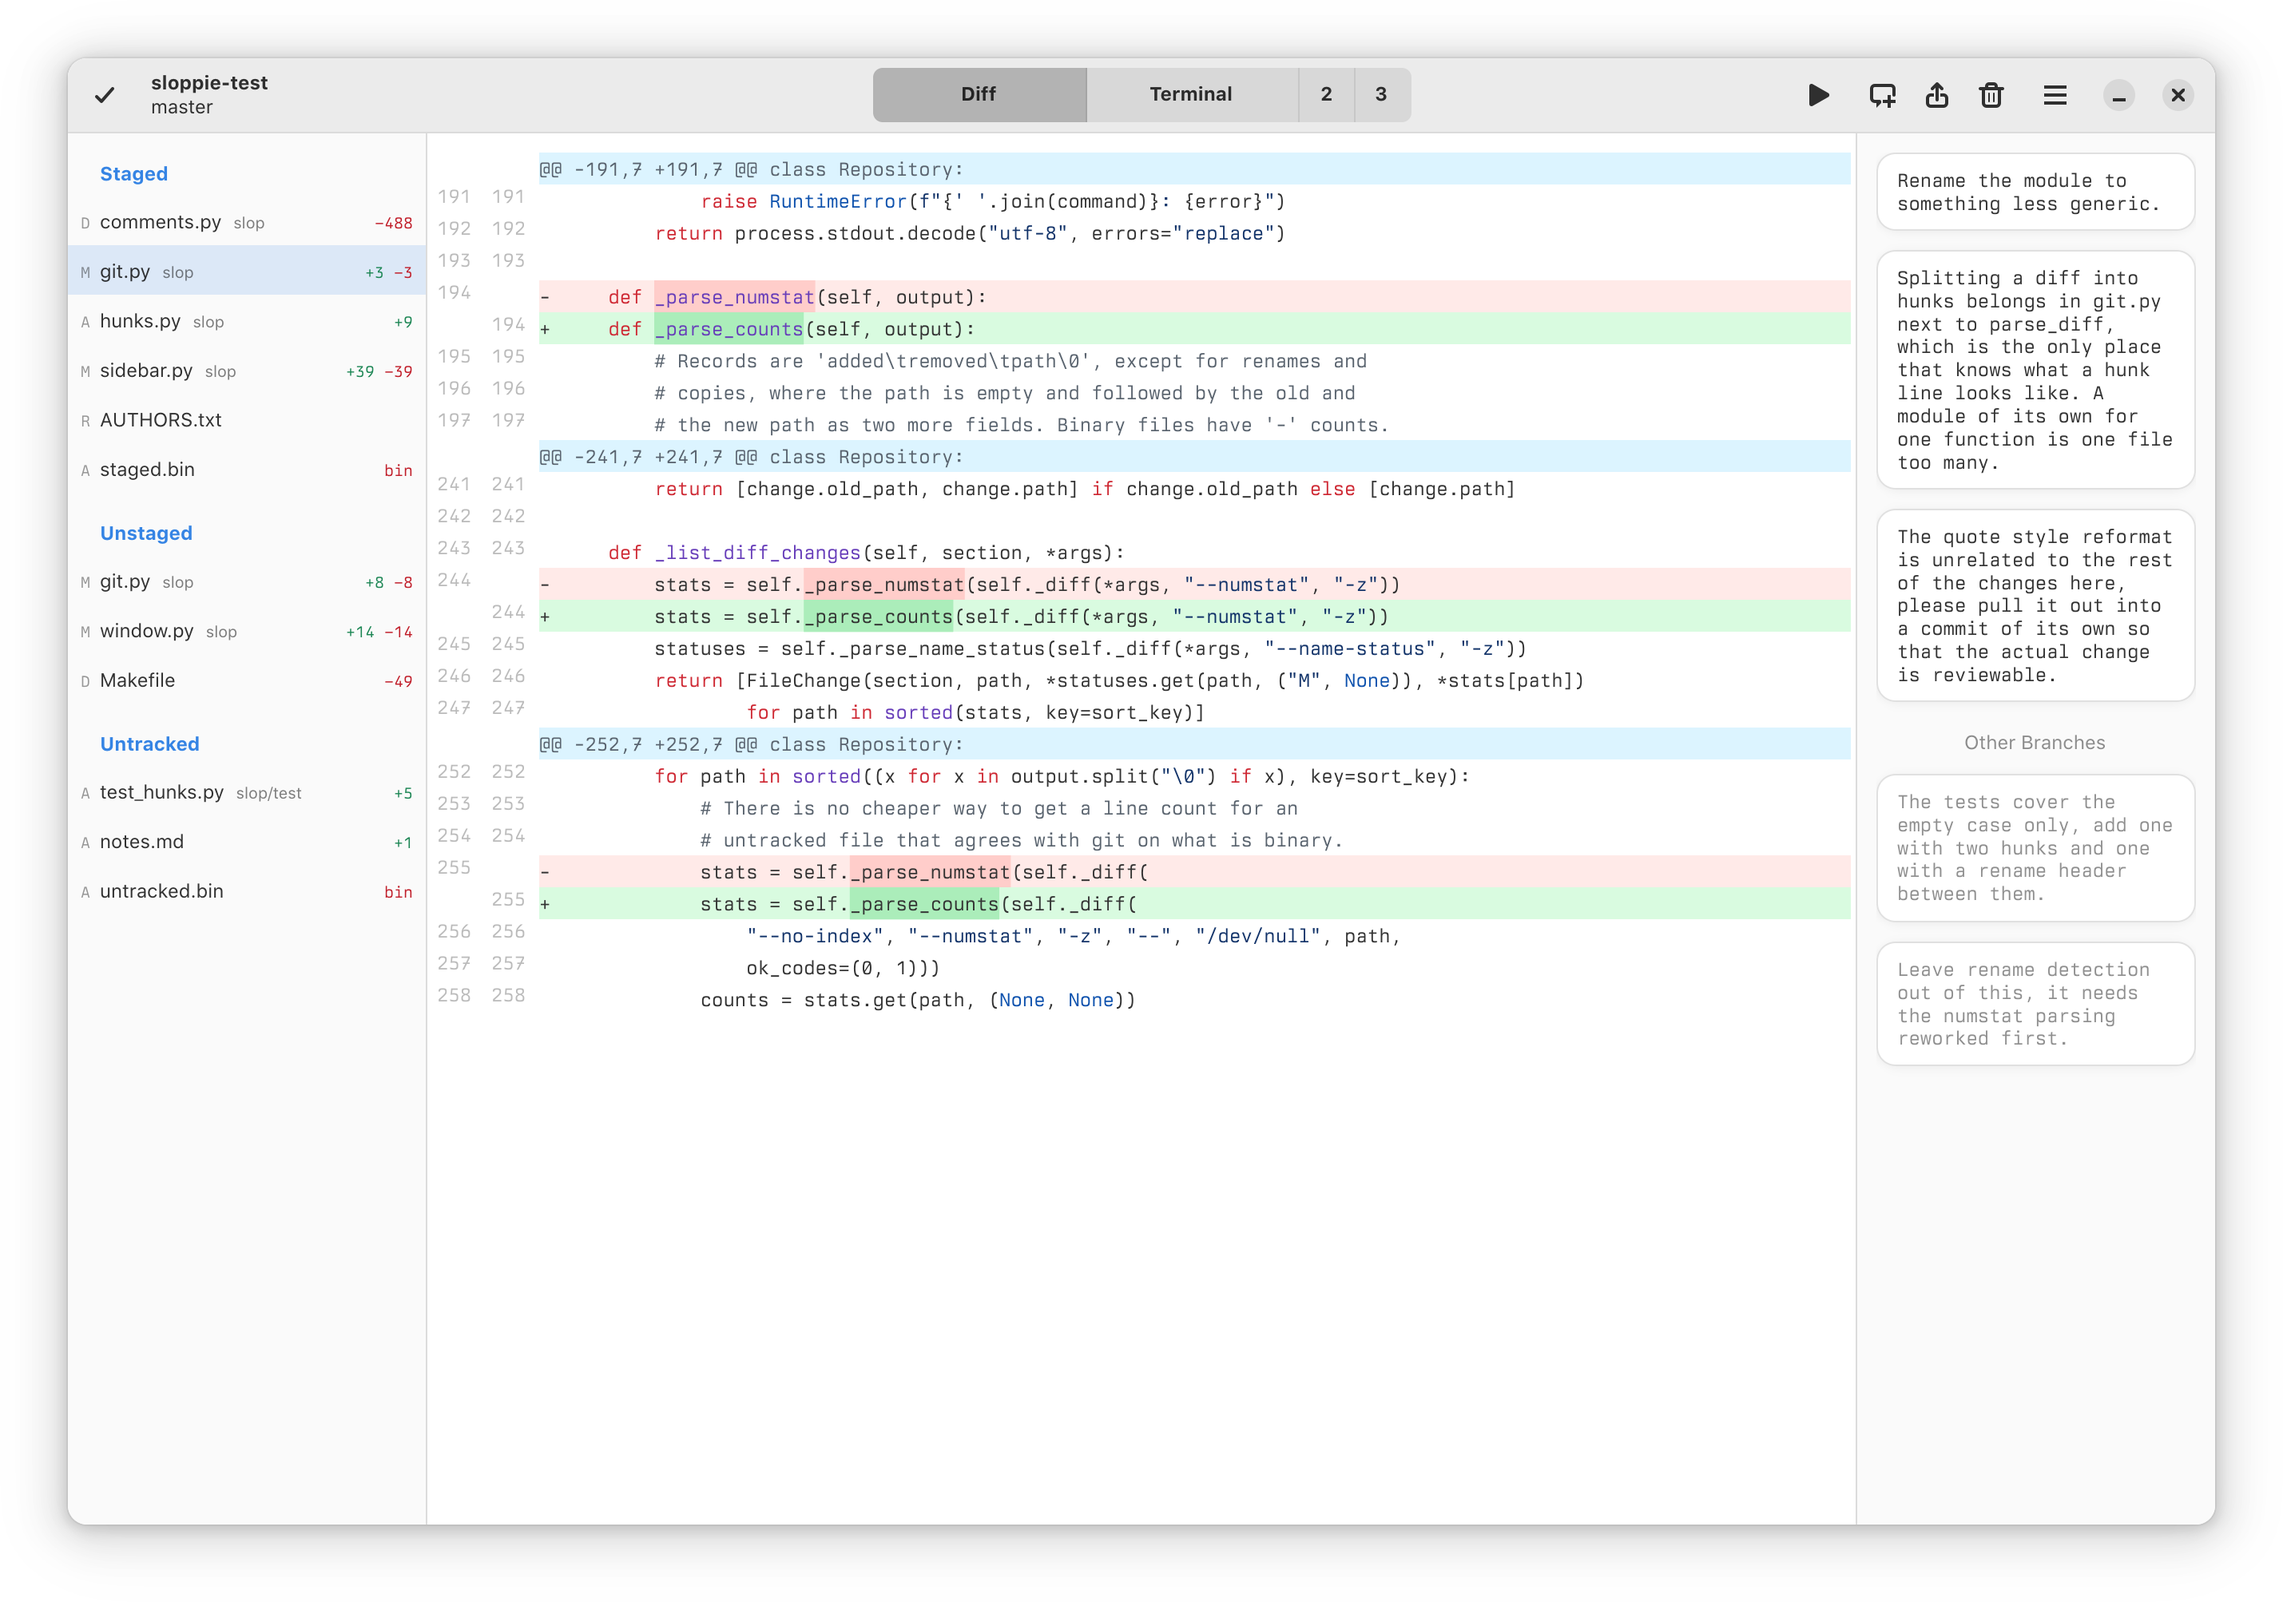
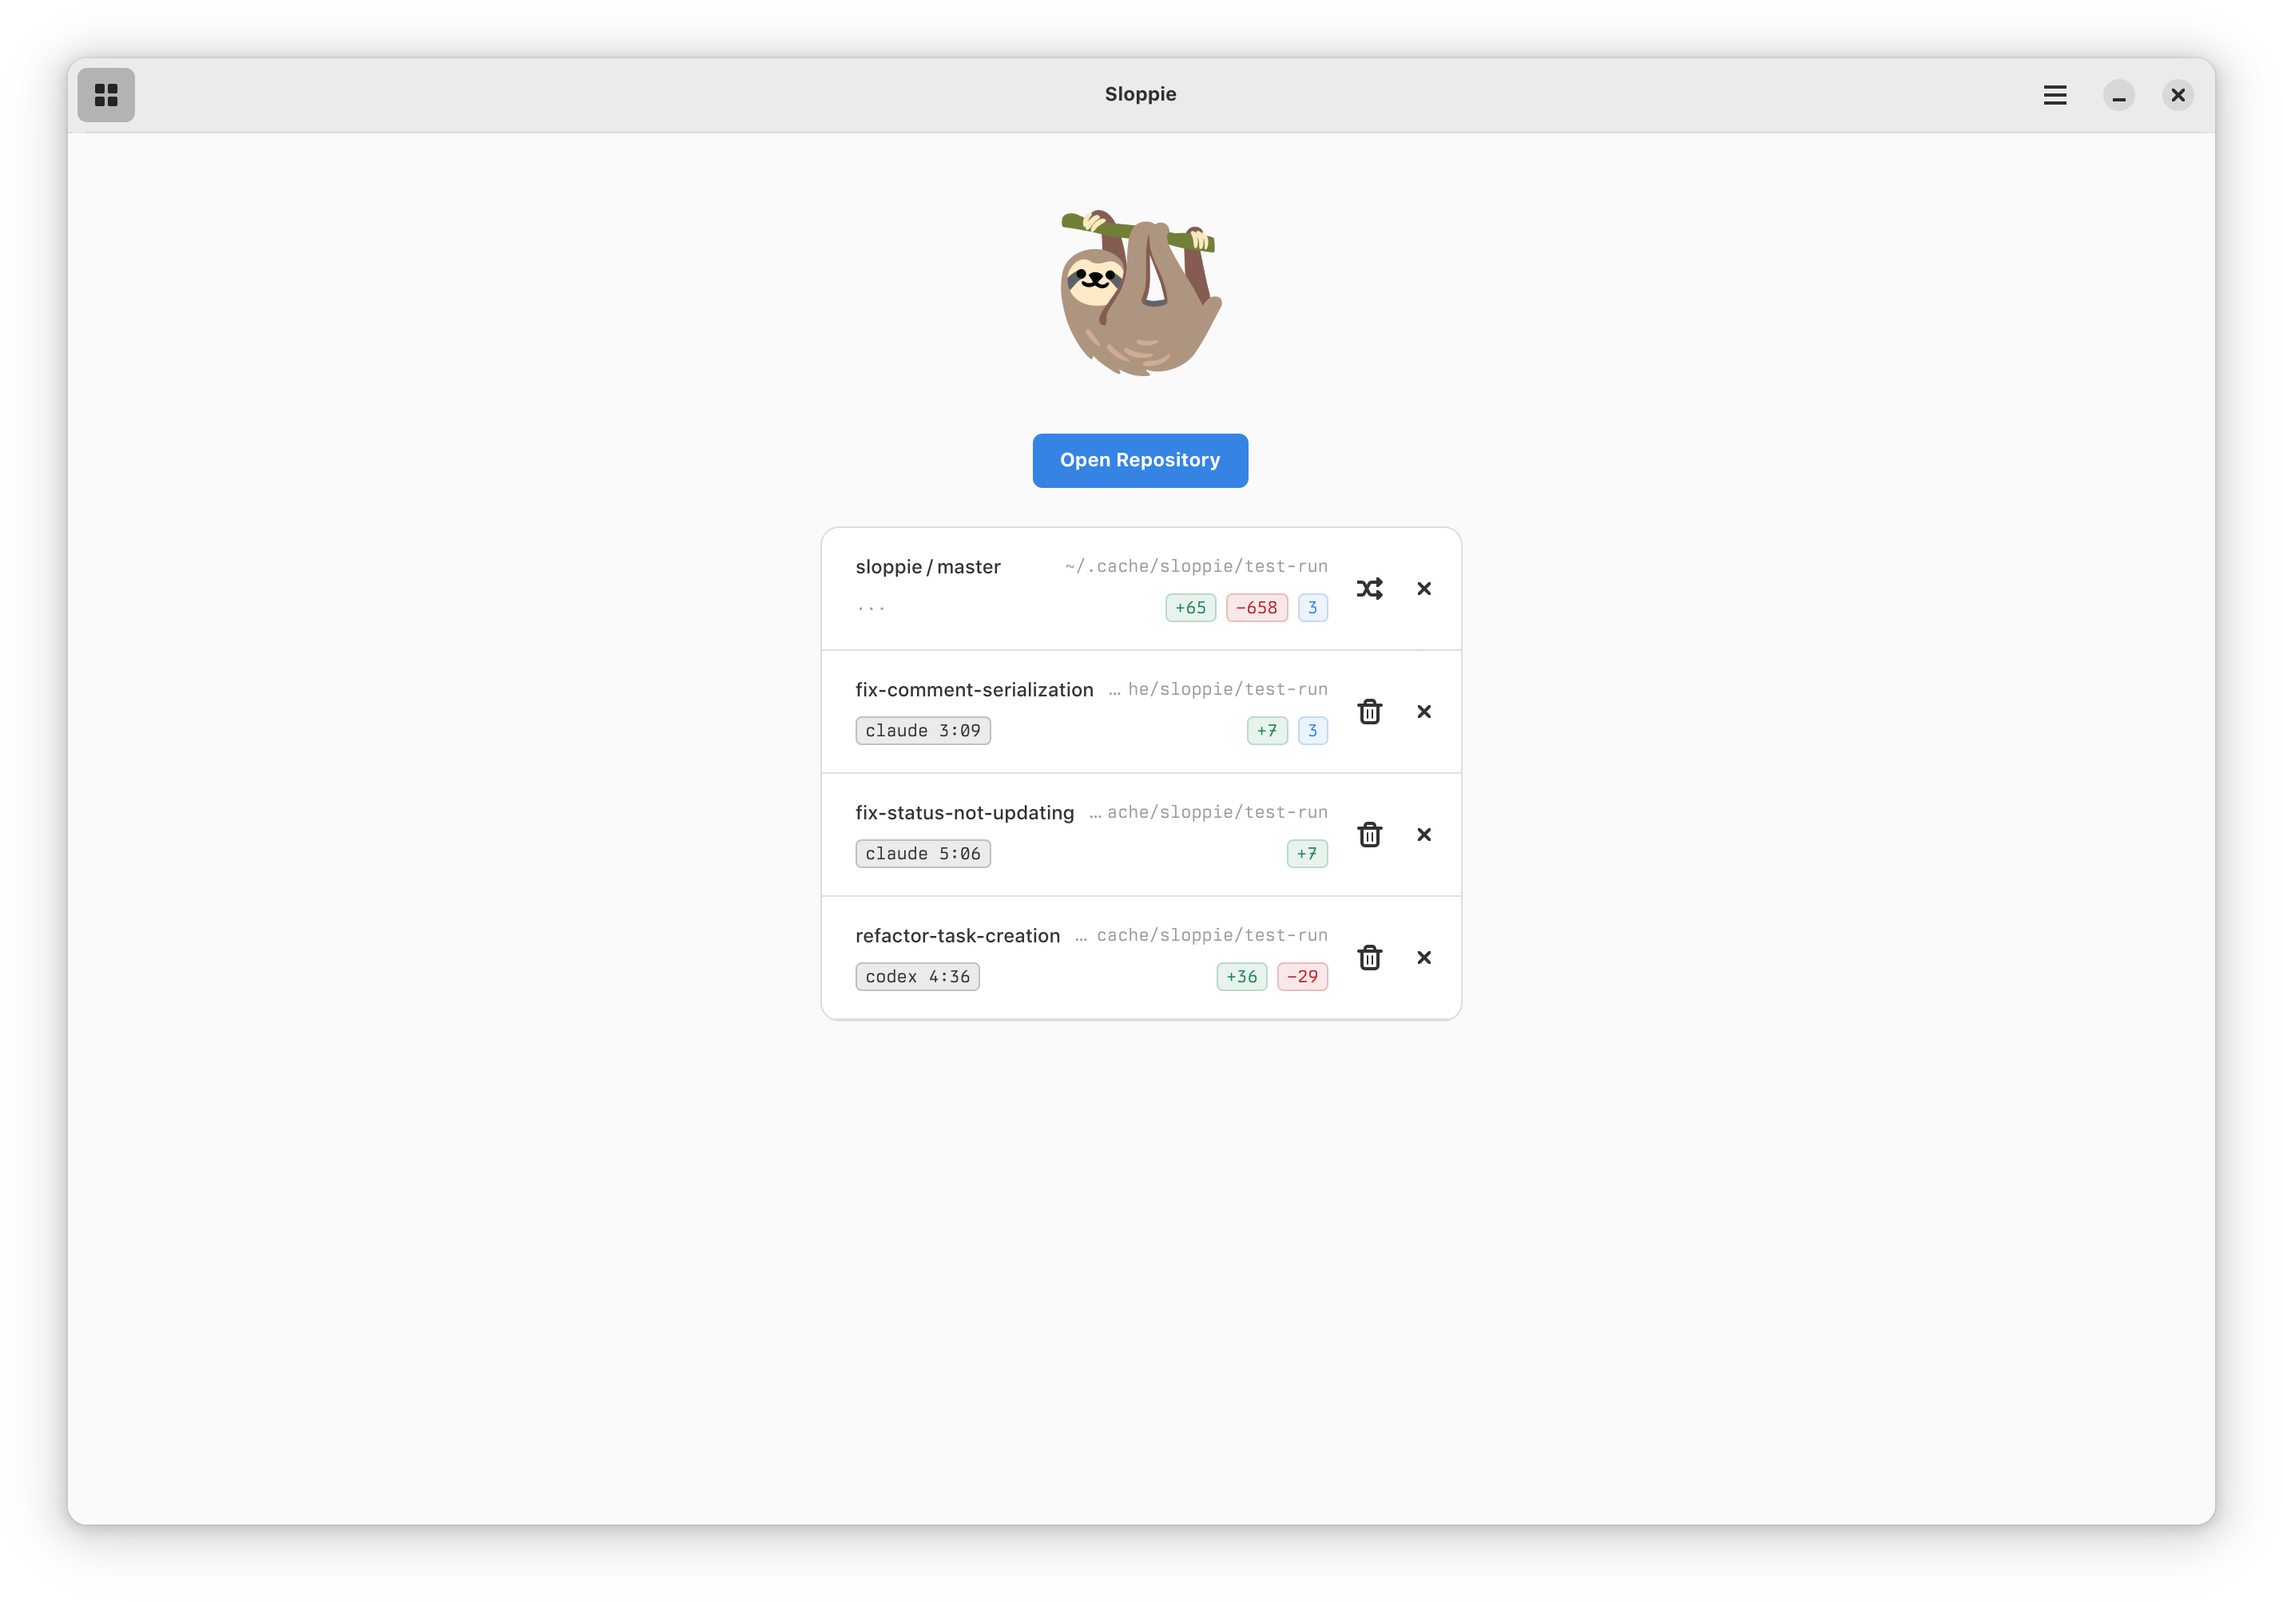
Update screenshots

diff --git a/README.md b/README.md
@@ -1,12 +1,14 @@
 # Sloppie
 
-Sloppie is a development environment that combines a coding agent
-running in a terminal, a git diff viewer and a code-review like
-mechanism to pass comments on the diff async to the coding agent.
-Sloppie runs on Linux, fitting best in GNOME + Wayland environment.
+Sloppie is a development environment that provides a dashboard to
+orchestrate work over multiple parallel tasks, each of which features a
+coding agent running in a terminal, a git diff viewer and a code-review
+like mechanism to pass comments on the diff async to the coding agent.
+Sloppie runs on Linux, fitting best in the GNOME desktop.
 
 <img src="data/screenshot-1.png" alt="screenshot" width="1429">
 <img src="data/screenshot-2.png" alt="screenshot" width="1429">
+<img src="data/screenshot-3.png" alt="screenshot" width="1429">
 
 Sloppie is hard-coded to its author's preferences and not generic or
 configurable. If you like the concept and want to use Sloppie, instead
